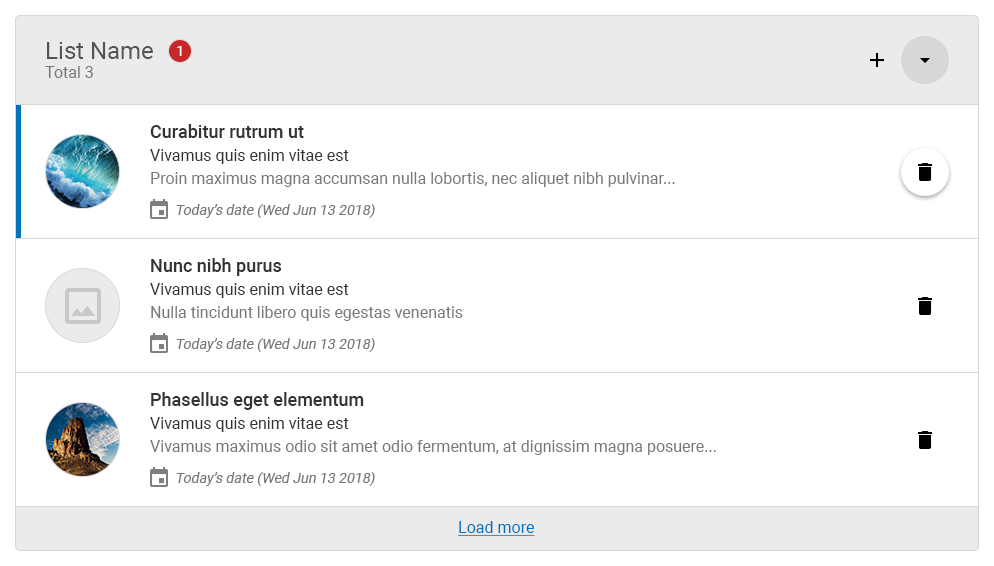
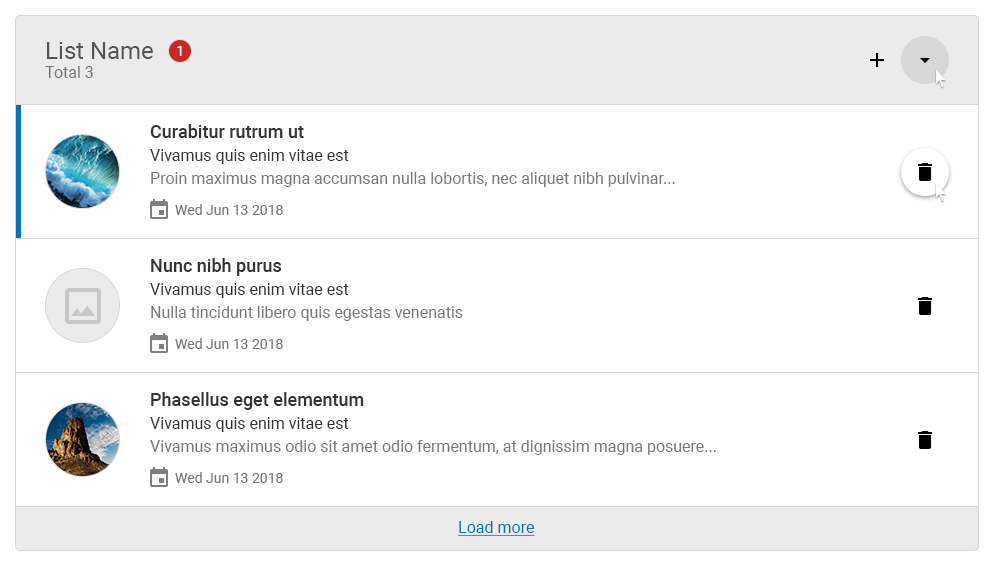
Update mock-ups

diff --git a/src/app/app.component.html b/src/app/app.component.html
@@ -1,20 +1,1 @@
-<!--The content below is only a placeholder and can be replaced.-->
-<div style="text-align:center">
-  <h1>
-    Welcome to {{ title }}!
-  </h1>
[1 lines of base64/hex data omitted]
-</div>
-<h2>Here are some links to help you start: </h2>
-<ul>
-  <li>
-    <h2><a target="_blank" rel="noopener" href="https://angular.io/tutorial">Tour of Heroes</a></h2>
-  </li>
-  <li>
-    <h2><a target="_blank" rel="noopener" href="https://github.com/angular/angular-cli/wiki">CLI Documentation</a></h2>
-  </li>
-  <li>
-    <h2><a target="_blank" rel="noopener" href="https://blog.angular.io/">Angular blog</a></h2>
-  </li>
-</ul>
-
+<h1>{{title}}</h1>

diff --git a/src/app/app.component.ts b/src/app/app.component.ts
@@ -6,5 +6,5 @@ import { Component } from '@angular/core';
   styleUrls: ['./app.component.css']
 })
 export class AppComponent {
-  title = 'app';
+  title = 'Cority UI Engineer Test';
 }

diff --git a/README.md b/README.md
@@ -4,10 +4,9 @@
 
 ## Getting Started
 
-- Fork your own copy of cority-ui-engineer-test repository to your GitHub account.
-- Rename your new repository to cority-ui-engineer-test-[first name]-[last name]
 - Clone the repository.
-- Install packages and run the project.
+- Rename your new repository to cority-ui-engineer-test-[first name]-[last name]
+- Install packages and run the project ([Node.js](https://nodejs.org/en/) and [Angular CLI](https://github.com/angular/angular-cli) are required).
 ```shell
 npm install
 ng serve
@@ -22,8 +21,9 @@ Do your best to complete as many steps as you can.
 
 1. Using only HTML, create a template for the structure depicted in the mock-ups.
 2. Using CSS, style your template so it matches the mock-ups as closely as possible.
-3. Build an Angular list component based on your template and import it to the project.
-4. Show total number of items in the list header.
+3. Create an Angular list component from your code and import it to the project.
+4. Display today's date in the format shown in the mock-ups.
+5. Show total number of items in the list header.
 
 ### BONUS:
 
